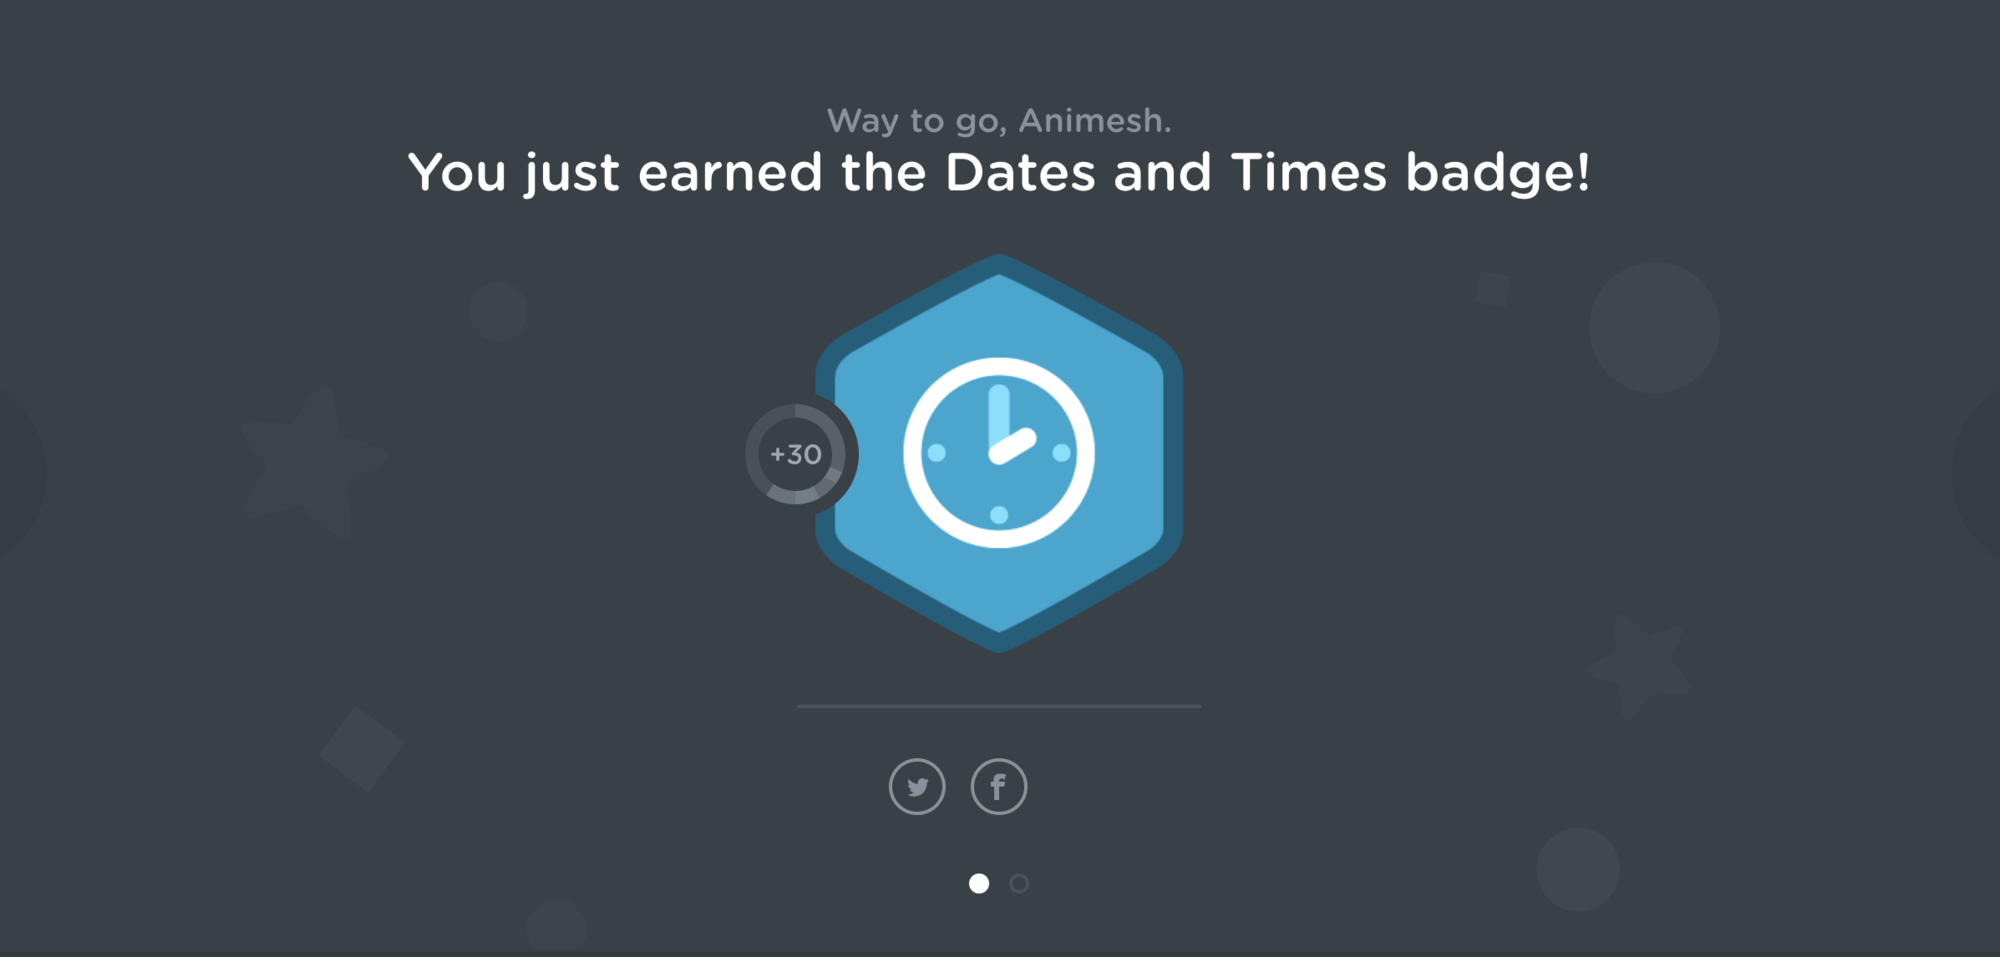
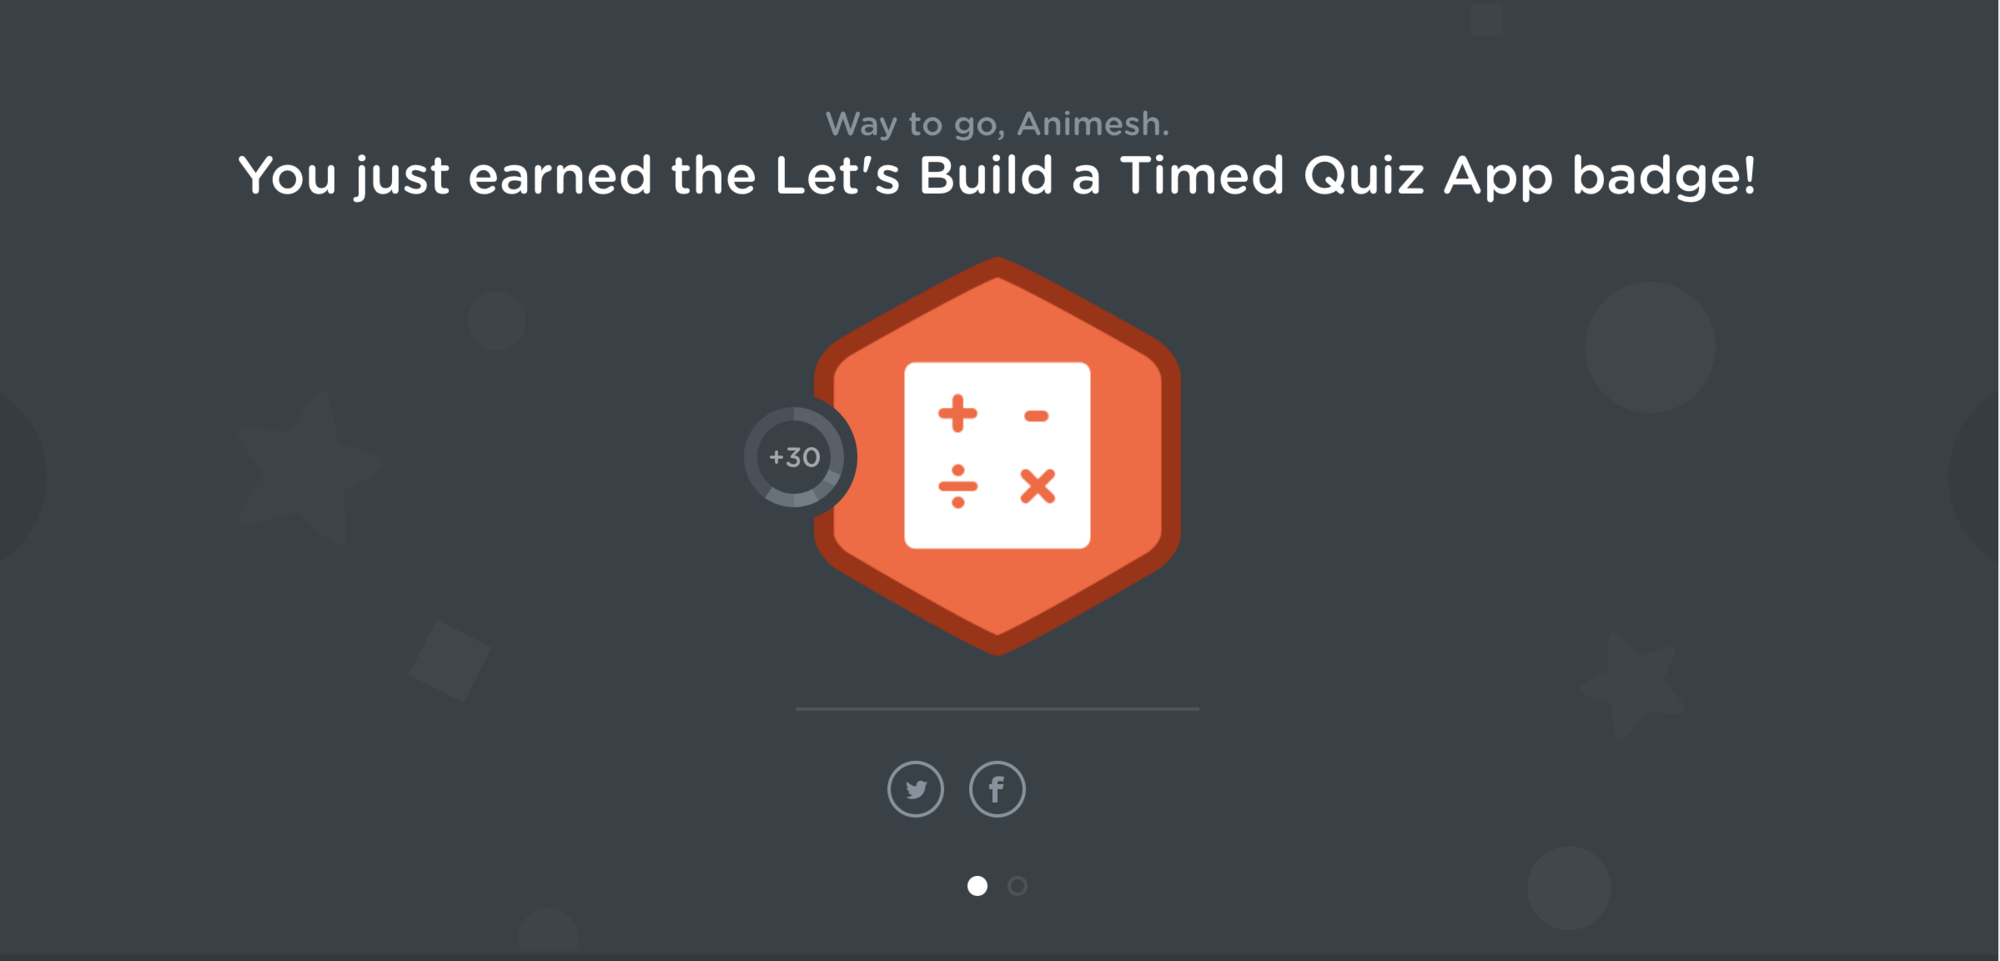
Day 09 of the #100DaysOfCode

diff --git a/content/articles/100DaysOfX/100DaysOfCode/100Days-of-code-log-file_V_2_0.md b/content/articles/100DaysOfX/100DaysOfCode/100Days-of-code-log-file_V_2_0.md
@@ -1,6 +1,6 @@
 Title: 100Days of Code Log File 2nd Attempt
 Date: 2019-02-15 22:42:30
-Modified: 2019-02-28 23:02:31
+Modified: 2019-03-01 22:25:32
 Category: #100DaysOfCode, python
 Tags: #100DaysOfCode, #100DaysOfX, Python
 Slug: 100Days-of-code-log-file_V_2_0
@@ -33,6 +33,21 @@ There are learning from the previous failure, here are the modification which wa
 * Missing few (~5) days is acceptable.
 
 Ladies and gentleman, I present to you, #100DaysofCode with @ [animeshkbhadra ](https://twitter.com/animeshkbhadra "Twitter Handle")
+
+---
+
+## Day 08 | Friday 01 March 2019 ##
+
+### Days Progress ###
+* Completed the module of Quiz Game in the course. [TreeHouse | Date and Times in Python ](https://teamtreehouse.com/library/dates-and-times-in-python)
+* Earned the build timed quiz App badge.
+
+![Python Timed Quiz Badge ]({filename}../../../images/100DaysOfCode/python_time.png "Python Timed Quiz Badge")
+
+### Thoughts ###
+* Some concepts of games were very good.
+
+* [link to tweet](https://twitter.com/animeshkbhadra/status/1101526314564141057)
 
 ---
 
